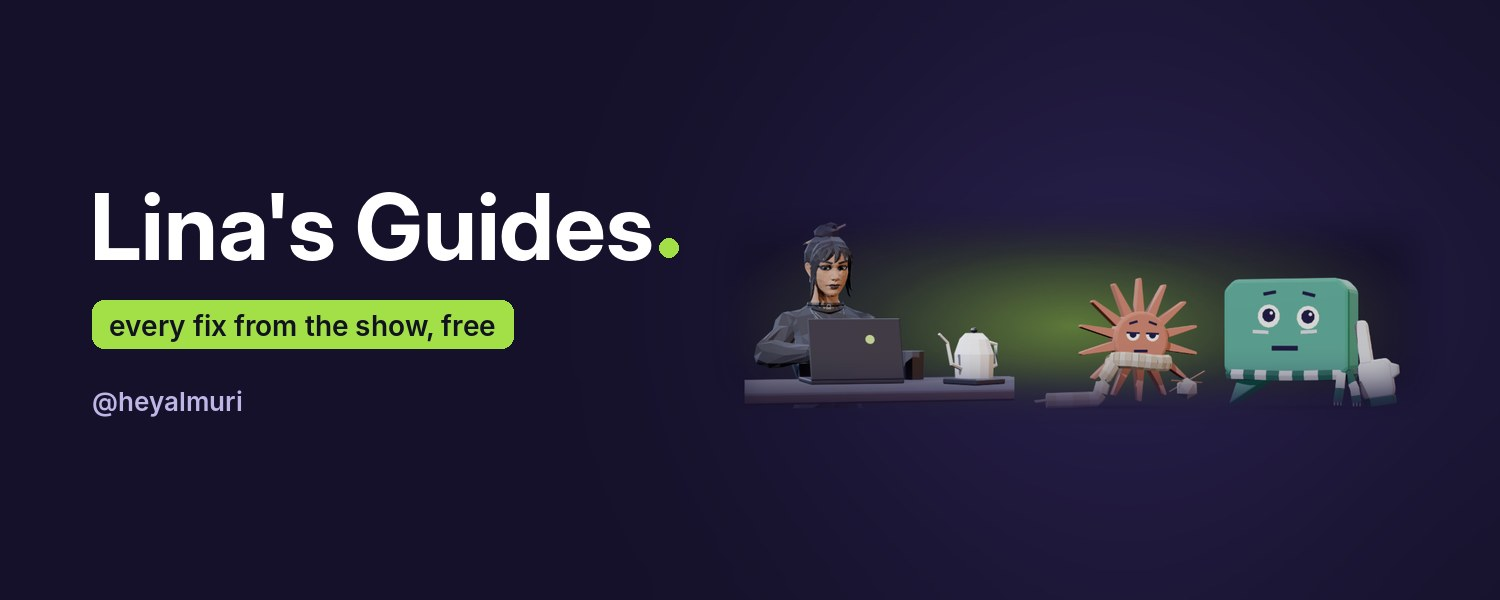
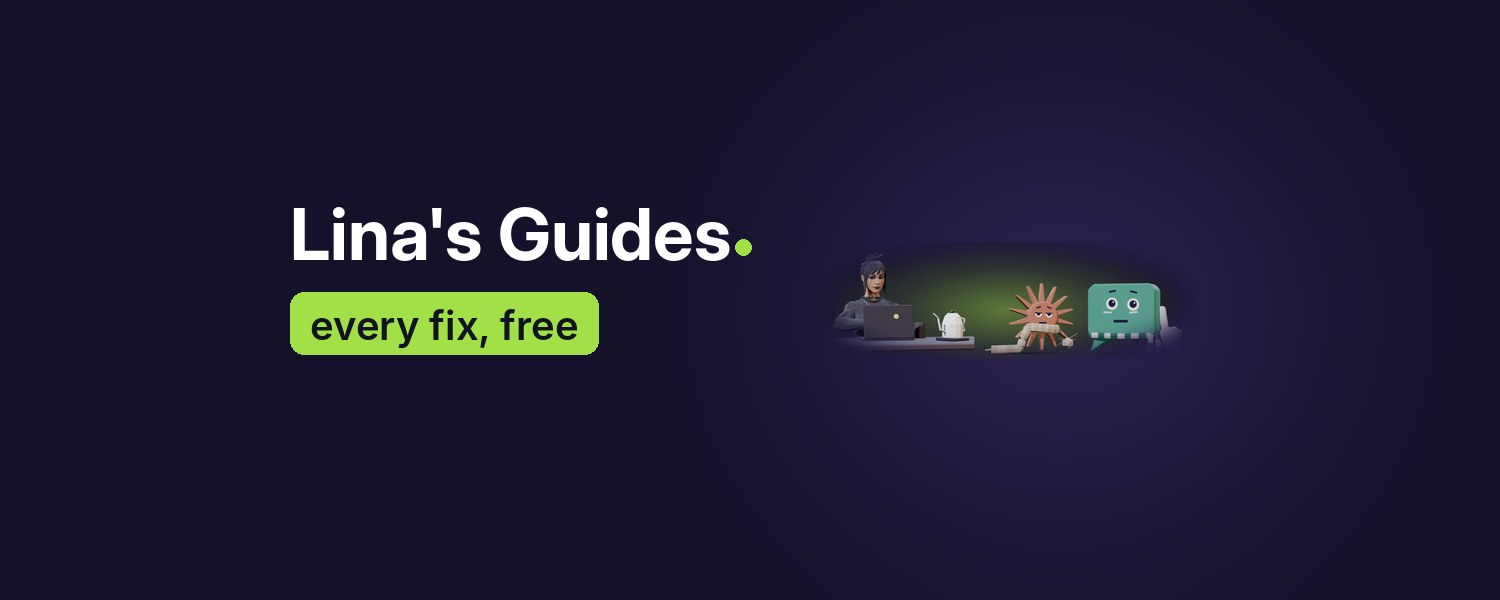
Cover script v2 and cleaner images
Covers now keep the title and pill inside the area that survives the
desktop, phone and link-preview crops, with a bigger pill, no byline,
soft oval art and a --preview check. Removed the crops that showed
watermarks and cut text on phones; added a clean strip of the cast.

Claude-Session: https://claude.ai/code/session_01GVYij1FXs3wtbmAwST1xEs

Changed region(s): [[0.0613, 0.3, 0.9507, 0.69], [0.0613, 0.48, 0.3987, 0.6], [0.0613, 0.66, 0.1533, 0.69]]

diff --git a/guides/make_cover.py b/guides/make_cover.py
@@ -2,13 +2,16 @@
 
 Usage:
   python3 guides/make_cover.py --title "I asked for one line" \
-      --pill "commit message, one line" --out guides/assets/cover-line.jpg \
-      [--art guides/assets/lina-laptop.jpg] [--dot red|lime]
+      --pill "the 3 prompts" --out guides/assets/cover-line.jpg \
+      [--art guides/assets/lina-laptop.jpg] [--dot red|lime] [--preview]
 
-Keep the title short (about 22 characters fits on one line). The art is
-any image from guides/assets/ or the almuri-media posts; it is placed on
-the right with soft edges. Notion crops covers to a band around the
-middle, so all text sits between y=150 and y=450.
+Notion crops covers differently on desktop, on phones and in link
+previews (the Instagram DM shows the cover as the preview). Everything
+important stays inside the safe zone x 280-1220, y 160-440, which
+survives all three. --preview writes <out>-preview.jpg with the three
+crops side by side: look at it before using the cover.
+
+Keep the title short (about 20 characters) and the pill to a few words.
 """
 import argparse
 import os
@@ -19,18 +22,25 @@ BG = (21, 17, 42)
 GLOW = (75, 60, 140)
 LIME = (163, 224, 71)
 RED = (240, 90, 70)
-LAV = (190, 182, 230)
 WHITE = (255, 255, 255)
 INK = (17, 19, 32)
 W, H = 1500, 600
+SAFE = (280, 160, 1220, 440)
 HERE = os.path.dirname(os.path.abspath(__file__))
+
+# (name, box) for --preview: desktop band, phone crop, link preview 1.91:1
+CROPS = [
+    ("desktop", (0, 159, 1500, 440)),
+    ("phone", (282, 0, 1218, 600)),
+    ("link preview", (177, 0, 1323, 600)),
+]
 
 
 def font(bold, size):
     candidates = (
         ["/usr/share/fonts/opentype/inter/InterDisplay-Bold.otf", "/usr/share/fonts/opentype/inter/Inter-Bold.otf"]
         if bold
-        else ["/usr/share/fonts/opentype/inter/Inter-SemiBold.otf"]
+        else ["/usr/share/fonts/opentype/inter/Inter-SemiBold.otf", "/usr/share/fonts/opentype/inter/Inter-Bold.otf"]
     ) + ["/usr/share/fonts/truetype/dejavu/DejaVuSans-Bold.ttf"]
     for path in candidates:
         if os.path.exists(path):
@@ -38,10 +48,68 @@ def font(bold, size):
     return ImageFont.load_default()
 
 
-def feather(img, r):
-    mask = Image.new("L", img.size, 0)
-    ImageDraw.Draw(mask).rectangle((r, r, img.width - r, img.height - r), fill=255)
-    return mask.filter(ImageFilter.GaussianBlur(r / 2))
+def oval_mask(size):
+    w, h = size
+    mask = Image.new("L", size, 0)
+    ImageDraw.Draw(mask).ellipse((w * 0.06, h * 0.04, w * 0.94, h * 0.98), fill=255)
+    return mask.filter(ImageFilter.GaussianBlur(min(w, h) / 12))
+
+
+def make(title, pill, art_path, dot):
+    img = Image.new("RGB", (W, H), BG)
+    glow = Image.new("L", (W, H), 0)
+    ImageDraw.Draw(glow).ellipse((820, 120, 1300, 500), fill=110)
+    img.paste(Image.new("RGB", (W, H), GLOW), (0, 0), glow.filter(ImageFilter.GaussianBlur(110)))
+
+    d = ImageDraw.Draw(img)
+    left = SAFE[0] + 10
+    size = 72
+    while size > 52 and d.textlength(title, font=font(True, size)) > 560:
+        size -= 2
+    f = font(True, size)
+    pf = font(False, 40)
+    text_right = left + max(d.textlength(title, font=f) + 30, d.textlength(pill, font=pf) + 40)
+
+    # Art fills the space right of the text, up to 280 px tall.
+    art = Image.open(art_path).convert("RGB")
+    max_w = max(330, SAFE[2] - 10 - int(text_right) - 40)
+    scale = min(max_w / art.width, 280 / art.height)
+    art = art.resize((int(art.width * scale), int(art.height * scale)), Image.LANCZOS)
+    x = SAFE[2] - 10 - art.width
+    y = 300 - art.height // 2
+    img.paste(art, (x, y), oval_mask(art.size))
+    d = ImageDraw.Draw(img)
+    ty = 190
+    d.text((left, ty), title, font=f, fill=WHITE)
+    tw = d.textlength(title, font=f)
+    r = max(7, size // 9)
+    cy = ty + int(size * 0.8)
+    d.ellipse((left + tw + 4, cy - r, left + tw + 4 + 2 * r, cy + r), fill=RED if dot == "red" else LIME)
+
+    pw = d.textlength(pill, font=pf)
+    py = ty + size + 30
+    d.rounded_rectangle((left, py, left + pw + 40, py + 62), radius=14, fill=LIME)
+    d.text((left + 20, py + 9), pill, font=pf, fill=INK)
+    return img
+
+
+def preview(img, out):
+    tiles = []
+    for name, box in CROPS:
+        t = img.crop(box)
+        t.thumbnail((700, 300))
+        canvas = Image.new("RGB", (t.width, t.height + 30), "white")
+        canvas.paste(t, (0, 30))
+        ImageDraw.Draw(canvas).text((6, 6), name, fill="black", font=font(False, 18))
+        tiles.append(canvas)
+    sheet = Image.new("RGB", (sum(t.width for t in tiles) + 20 * len(tiles), max(t.height for t in tiles)), "white")
+    x = 0
+    for t in tiles:
+        sheet.paste(t, (x, 0))
+        x += t.width + 20
+    path = os.path.splitext(out)[0] + "-preview.jpg"
+    sheet.save(path, quality=85)
+    return path
 
 
 def main():
@@ -51,38 +119,14 @@ def main():
     p.add_argument("--out", required=True)
     p.add_argument("--art", default=os.path.join(HERE, "assets", "lina-laptop.jpg"))
     p.add_argument("--dot", choices=["red", "lime"], default="red")
-    p.add_argument("--byline", default="Lina's Guides  ·  @heyalmuri")
+    p.add_argument("--preview", action="store_true")
     a = p.parse_args()
 
-    img = Image.new("RGB", (W, H), BG)
-    glow = Image.new("L", (W, H), 0)
-    ImageDraw.Draw(glow).ellipse((800, 60, 1450, 540), fill=90)
-    img.paste(Image.new("RGB", (W, H), GLOW), (0, 0), glow.filter(ImageFilter.GaussianBlur(140)))
-
-    art = Image.open(a.art).convert("RGB")
-    scale = min(560 / art.width, 330 / art.height)
-    art = art.resize((int(art.width * scale), int(art.height * scale)), Image.LANCZOS)
-    img.paste(art, (W - art.width - 70, (H - art.height) // 2), feather(art, 30))
-
-    d = ImageDraw.Draw(img)
-    size = 84
-    while size > 48 and d.textlength(a.title, font=font(True, size)) > 800:
-        size -= 4
-    f = font(True, size)
-    d.text((90, 175), a.title, font=f, fill=WHITE)
-    tw = d.textlength(a.title, font=f)
-    r = max(8, size // 9)
-    cy = 175 + int(size * 0.8)
-    d.ellipse((90 + tw + 5, cy - r, 90 + tw + 5 + 2 * r, cy + r), fill=RED if a.dot == "red" else LIME)
-
-    pf = font(False, 28)
-    pw = d.textlength(a.pill, font=pf)
-    d.rounded_rectangle((92, 300, 92 + pw + 34, 348), radius=12, fill=LIME)
-    d.text((109, 308), a.pill, font=pf, fill=INK)
-    d.text((92, 385), a.byline, font=font(False, 26), fill=LAV)
-
+    img = make(a.title, a.pill, a.art, a.dot)
     img.save(a.out, quality=88, optimize=True)
     print(a.out)
+    if a.preview:
+        print(preview(img, a.out))
 
 
 if __name__ == "__main__":
